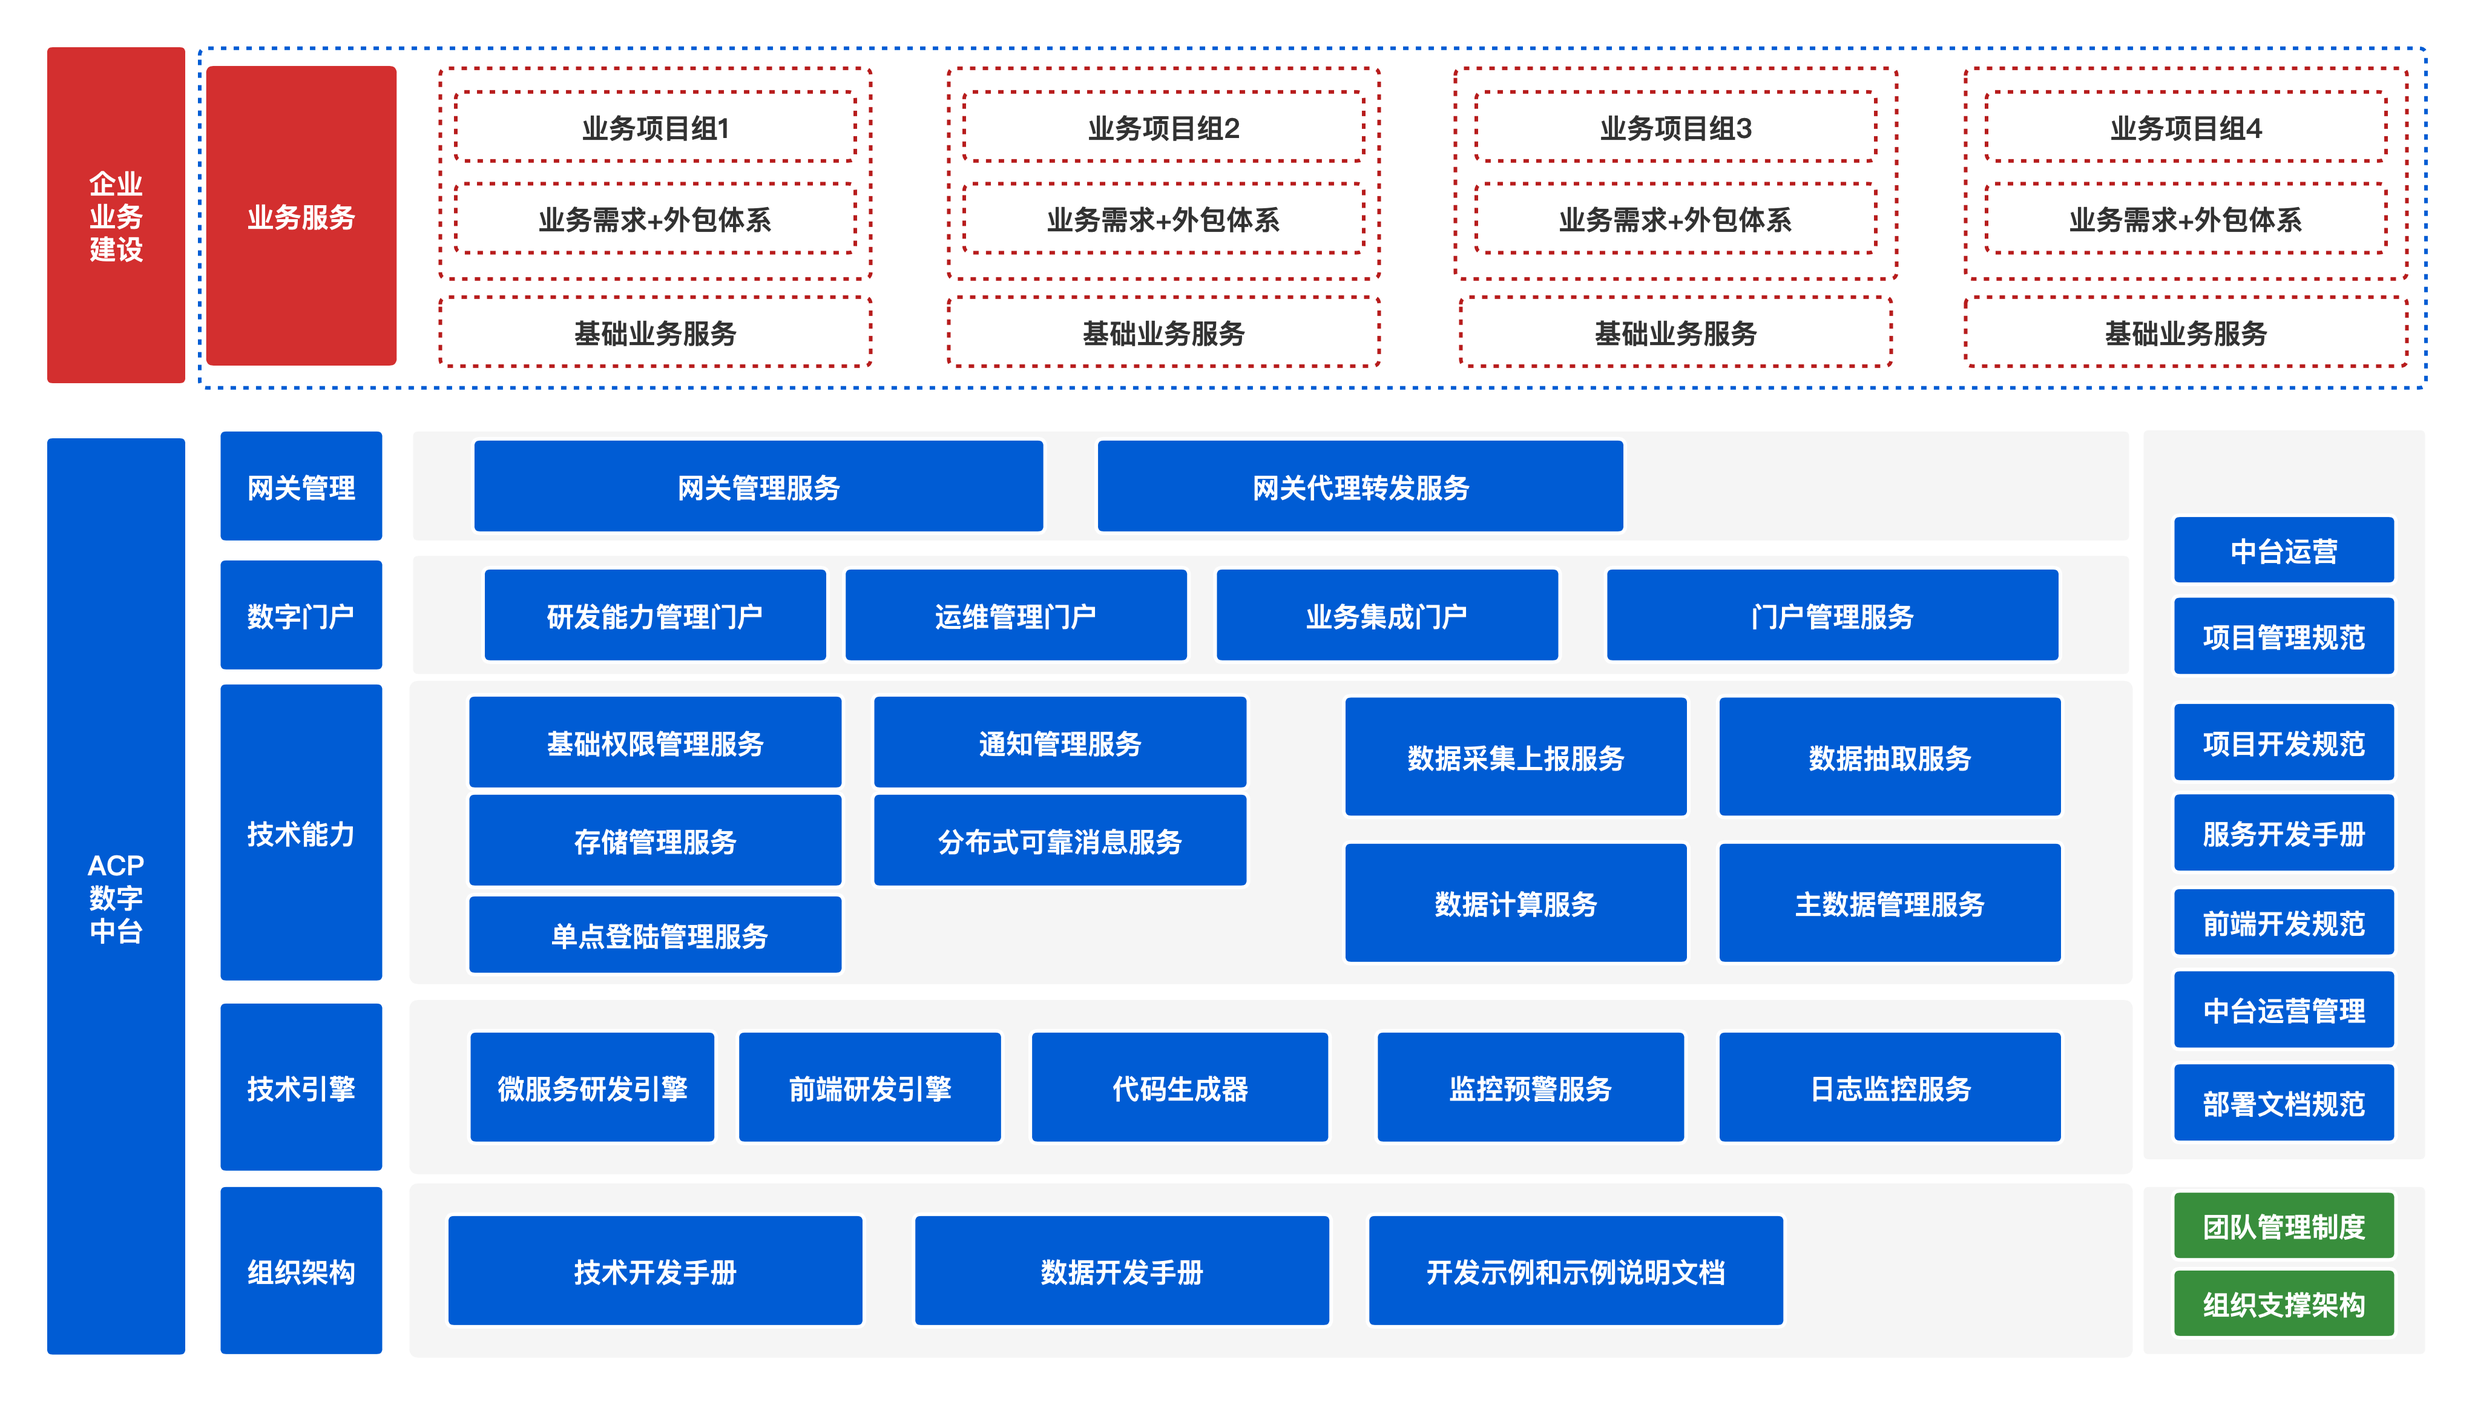
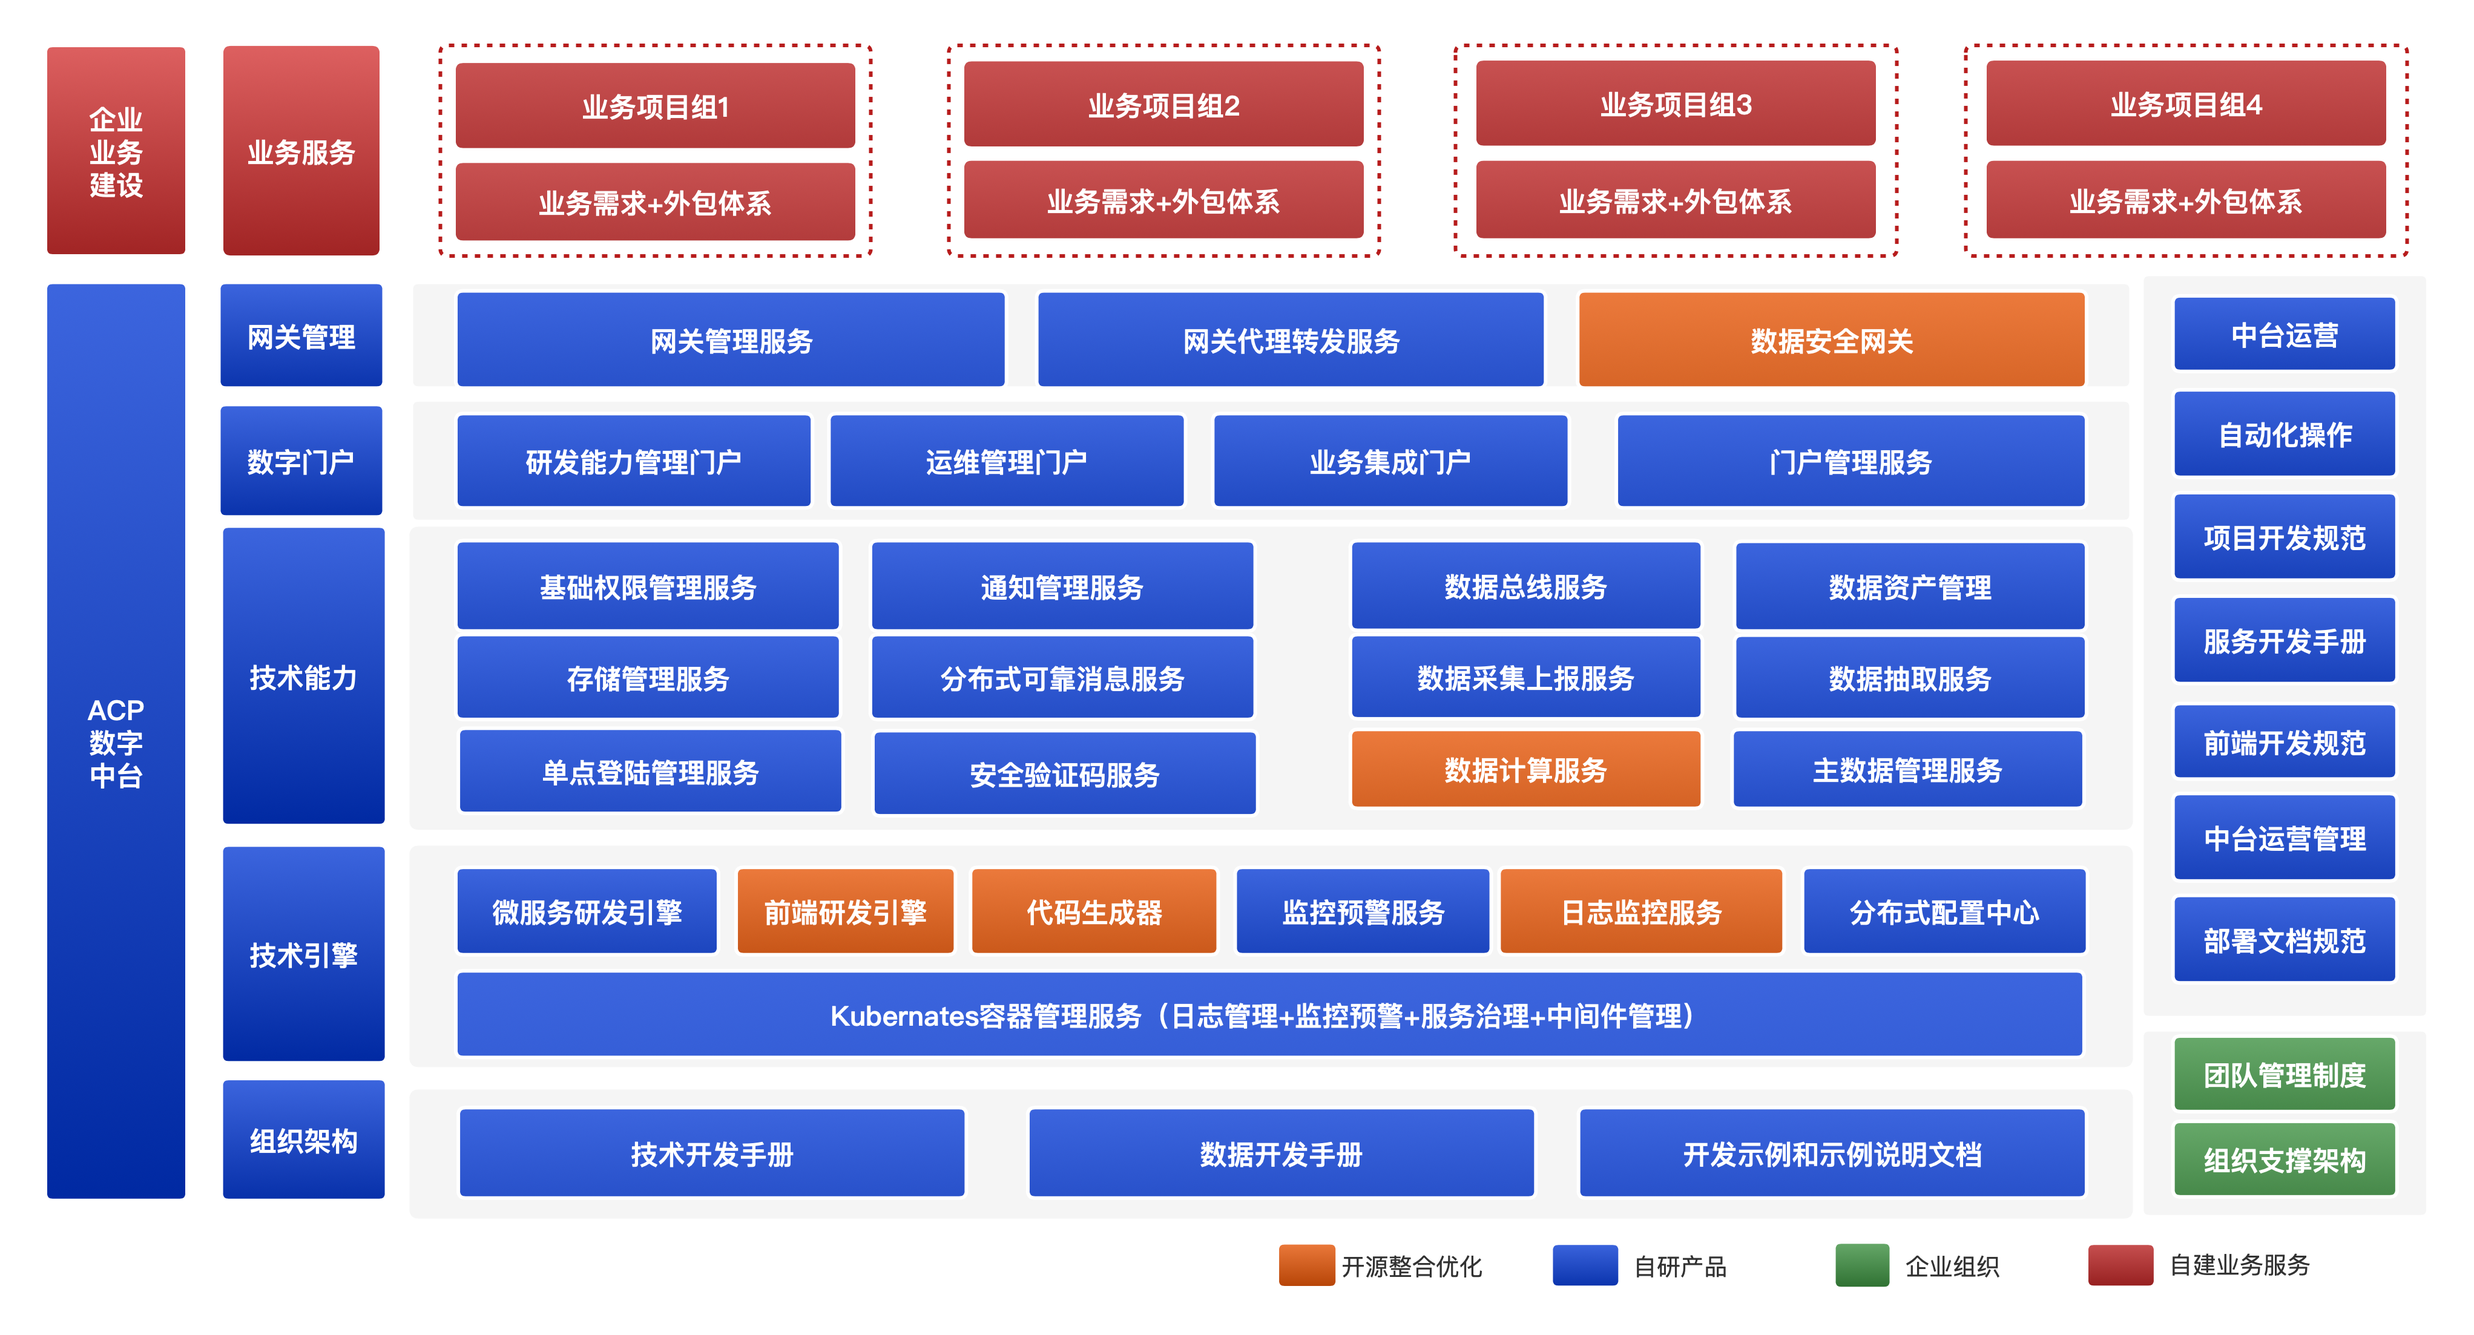
feat:集成数据网关服务说明和更新产品体系

diff --git a/docs/.vuepress/config.js b/docs/.vuepress/config.js
@@ -476,7 +476,12 @@ module.exports = {
                     title: '数据开发服务',
                     collapsible: true,
                     children: genDataSkillDevSidebar()
-                }
+                },
+                {
+                    title: '数据安全网关',
+                    collapsible: true,
+                    children: genDataSecuritySidebar()
+                },
             ],
             '/learn/': [
                 {
@@ -1747,6 +1752,19 @@ function genDataIntegrationSidebar() {
         '/dataskill/03_dataintegration/01_数据集成架构.md',
         '/dataskill/03_dataintegration/02_当前集成功能.md',
         '/dataskill/03_dataintegration/03_数据采集示例.md'
+    ]
+    return mapArr.map(i => {
+        return i
+    })
+
+}
+
+function genDataSecuritySidebar() {
+    const mapArr = [
+        '/dataskill/07_datasecurity/01_数据安全管理.md',
+        '/dataskill/07_datasecurity/02_数据接口路由配置.md',
+        '/dataskill/07_datasecurity/03_客户端配置与注册.md',
+        '/dataskill/07_datasecurity/04_负载均衡管理.md'
     ]
     return mapArr.map(i => {
         return i

diff --git a/docs/dataskill/07_datasecurity/02_数据接口路由配置.md b/docs/dataskill/07_datasecurity/02_数据接口路由配置.md
@@ -1,0 +1,99 @@
+# 数据接口路由配置
+
+
+
+## 概述
+
+通过对网关路由维护与管理，实现路由、过滤器、熔断、鉴权、限流、日志、监控等功，在服务管理上进行路由配置
+
+<img src="/data/data-security/01_route.png" width="70%">
+
+## 本内容你将获得
+
+- 路由的添加与修改
+- 服务配置
+- 熔断器配置
+- 监控器配置
+- 过滤器配置
+- 限流器配置
+- 鉴权器配置
+
+## 路由的添加与修改
+
+路由添加与修改步骤：
+
+- 点击服务管理，进入服务管理页
+- 点击创建网关服务按钮或点击已有服务 管理 > 编辑，进入路由配置页
+- 进行路由配置
+- 配置完成点击发布即可完成新增或修改
+
+注意:
+
+- RoutId、系统代号、名称、服务URL、断言Path是必填项
+
+## 服务配置
+
+- 网关服务URL： 用于配置后端服务URL，示例 http://server:port
+- 断言Path： 用于匹配路由路径
+- 断言Header：请求的头部需匹配该配置
+- 过滤StripPrefix： 截取断言Path多节斜杠后内容，截取数量等于该配置的值
+- 断言Host： 请求的Host需匹配该配置
+- 断言RemoteAddr： 远程ip要匹配该值，示例: RemoteAddr=192.168.1.1/100
+- 参数RequestParameter： 往请求添加参数，示例: RequestParameter=version,v1.0
+- 重定向RewritePath： 将原始请求Path指向新的Path路径，但网关路由地址不变，如:/foo/abc指向/abc
+
+## 熔断器配置
+
+起用熔断器，当响应超时的时候，会触发降级，转到回调路径
+
+- 全局方法：超时时长设置5000ms，默认回调路径fallbackUri: forward:/fallback
+- 启用自定义：自定义超时时长及降级返回内容，回调路径fallbackUri: forward:/fallback/custom
+
+## 过滤器配置
+
+通过过滤器配置，与注册客户端相结合，起到过滤请求的作用
+
+- IP过滤：注册的客户端配置的IP才可访问后端服务
+- TOKEN过滤：请求头或参数带有注册客户端的token才可访问后端服务
+- ID过滤：请求头或参数带有注册客户端的id才可访问后端服务
+
+注意：
+
+- IP过滤需要配置本网关路由的注册客户端，非注册客户端IP不可访问
+- IP名单管理中的禁止通行的IP不可访问本网关路由
+- TOKEN为注册客户端中的JWT通行令牌
+
+## 限流器配置
+
+基于令牌桶算法的限流器，根据IP、URI、REQUESTID来进行限流
+
+- IP限流：当访问网关路由URL的IP数量，超出限流规则的约束，则直接拒决请求
+- URI限流： 当访问网关路由URL的URI数量，超出限流规则的约束，则直接拒决请求
+- REQUESTID限流：当访问网关路由URL的requestId参数数量，超出限流规则的约束，则直接拒决请求
+
+代码中相对应KeyResolver：
+
+```java
+// IP限流:
+Mono.just(exchange.getRequest().getRemoteAddress().getAddress().getHostAddress());
+
+// URI限流：
+Mono.just(exchange.getRequest().getURI().getPath());
+
+// REQUESTID限流：
+Mono.justOrEmpty(exchange.getRequest().getQueryParams().getFirst("requestId")).defaultIfEmpty("");  // defaultIfEmpt("")用来防止返回为null
+```
+
+## 鉴权器配置
+
+获取请求中信息，通过鉴权器下的配置验证获取的信息，不符合验证规则，则直接拒决请求
+
+- HEADER验证： 请求中的所带的HEADER头部信息需与该配置匹配，示例：Accept-Language: zh-CN,zh;q=0.9
+- IP验证： 如果启用IP过滤，则会先执行IP过滤后，再执行本IP验证，不符合验证规则，则直接拒决请求
+- 参数验证： 获取URL请求串中的所带的参数，验证指定参数值，不符合验证规则，则直接拒决请求
+- 时间验证： 只允许指定时间段内进行访问，不符合验证规则，则直接拒决请求，示例：08:00:00,20:00:00
+- Cookie验证： 获取客户端请求所带的cookie信息，验证指定cookie参数值，不符合验证规则，则直接拒决请求
+
+## 其他
+
+- 无

diff --git a/docs/dataskill/07_datasecurity/03_客户端配置与注册.md b/docs/dataskill/07_datasecurity/03_客户端配置与注册.md
@@ -1,0 +1,67 @@
+# 客户端配置与注册
+
+## 概述
+
+通过客户端与路由进行关联，可以实现对请求的过滤（过滤配置请看路由配置文档）
+
+<img src="/data/data-security/01_client.png" width="70%">
+
+## 本内容你将获得
+
+- 客户端配置
+- 客户端注册
+
+
+## 客户端配置
+
+- IP：客户端IP，与路由过滤器配置IP过滤器相关联，当路由注册了该客户端并且起用了ip过滤器时，来自该IP的请求会通过验证
+- 启用与禁用：当处于禁用状态时，即便注册了路由该客户端也不会起效
+
+## 客户端注册
+
+通过客户端注册，可以将客户端与路由进行关联
+
+### 注册方式
+
+- 客户端管理 > 客户端项管理 > 注册网关服务
+- 服务管理 > 服务项管理 > 注册客户端
+
+### **注册网关服务**
+
+- 点击添加服务可以选择当前客户端能够关联的路由，当路由被禁用时不会显示在可添加列表
+- 点击 操作 > 允许通行即可使注册生效
+- 该注册页主要显示注册的路由信息
+
+<img src="/data/data-security/02_client.png" width="70%">
+
+### 注册客户端
+
+- 点击添加客户端即可选择当前路由能够关联的客户端，当客户端被禁用时不会显示在可添加列表
+- 点击生成token，可打开JWT通行令牌配置页，生成的令牌可用于通过token过滤器验证
+- 点击 操作 > 允许通行即可使注册生效
+- 该注册页主要显示注册的客户端信息
+
+<img src="/data/data-security/03_client.png" width="70%">
+
+
+### JWT通行令牌配置
+
+- 过期时间为必填项，用于设置令牌过期时间
+
+- 生成好的token，可以用于请求中，设置头部或参数为此token，示例： 
+
+  ```shell
+  # 头部
+  curl -H 'token: <token>' http://xxx.xxx.xxx/xx/xx
+  
+  # 请求
+  curl http://xxx.xxx.xxx/xx/xx?token=<token>
+  ``` 
+
+- 配置好该JWT通行令牌的请求可以通过路由token过滤器的验证
+
+<img src="/data/data-security/04_client.png" width="500px">
+
+## 其他
+
+- 无

diff --git a/docs/dataskill/07_datasecurity/01_数据安全管理.md b/docs/dataskill/07_datasecurity/01_数据安全管理.md
@@ -1,0 +1,66 @@
+# 数据安全管理服务
+
+## 概述
+
+数据接口管理平台通过服务、客户端、负载、ip黑名单功能菜单来管理数据接口服务，通过面板、接口统计、接口监控来监控数据接口服务
+
+## 功能目录
+
+- 服务管理
+- 客户端管理
+- 负载管理
+- ip名单管理
+- 接口统计
+- 接口监控
+
+## 架构设计
+
+<img src="/data/data-security/framework.png" width="70%">
+
+## 服务管理
+
+用于对网关路由进行管理及配置，可配置路由、过滤器、熔断、鉴权、限流、日志、监控等功能
+
+<img src="/data/data-security/01_intro.png" width="70%">
+
+说明：
+- 通过注册客户端可以与客户端进行关联
+
+## 客户端管理
+
+通过客户端管理与维护，可允许或禁用客户端进行路由访问
+
+<img src="/data/data-security/02_intro.png" width="70%">
+
+说明：
+- 新增完客户端后注册服务到客户端（或在服务管理处注册客户端）能将客户端与服务进行关联
+
+## 负载管理
+
+支持通过负载URL路径，分发到多个路由URL
+
+<img src="/data/data-security/03_intro.png" width="70%">
+
+说明：
+- 在负载新增修改页通过添加服务来注册相关路由到负载服务项
+
+## ip名单管理
+
+提供访问网关路由服务的IP黑名单管理，如不需要禁用可以设置为允许通行
+
+<img src="/data/data-security/04_intro.png" width="70%">
+
+## 接口统计
+
+显示当前用户各个接口，可通过图表查看接口总请求量统计和单个接口请求量统计
+
+<img src="/data/data-security/05_intro.png" width="70%">
+
+说明：
+- 按天维度统计所有接口的请求次数，可展现7日内请求总量图表
+- 按小时维度统计所有接口请求次数，可展现24小时请求总量图表
+- 提供接口请求统计查询功能与数据列表，可展现每个接口信息与请求总次数
+
+## 其他
+
+- 无

diff --git a/docs/dataskill/07_datasecurity/04_负载均衡管理.md b/docs/dataskill/07_datasecurity/04_负载均衡管理.md
@@ -1,0 +1,36 @@
+# 负载均衡管理
+
+## 概述
+
+负载均衡模块通过对负载服务项进行自定义URL路径，注册路由，配置权重，实现请求分发
+
+<img src="/data/data-security/01_balance.png" width="70%">
+
+## 本内容你将获得
+
+- 负载均衡配置
+
+## 负载均衡配置
+
+### 路径配置
+
+- 路径不能为空，路径规则需要满足gateway断言Path规则，请根据实际API调用路径设置
+- 路径/parent/为默认根路径，不可更改，只做网关路由规则识别，用于区分负载路由路径与普通路由路径
+- 通过内置stripPrefix=1，实际转发到服务端不包含该/parent/根路径
+
+### 注册路由
+
+- 点击添加服务可以选择当前客户端能够关联的路由，当路由被禁用时不会显示在可添加列表
+- 添加服务后会将路由注册到负载里
+- 拖动配置比例可以设置注册路由的权重，当权重值为0时，改路由不会在负载里生效
+
+# 其他
+
+- 无
+
+
+
+
+
+
+

diff --git a/docs/dataskill/05_datadev/02_数据计算示例.md b/docs/dataskill/05_datadev/02_数据计算示例.md
@@ -14,7 +14,7 @@
 
 进入数据开发服务，导航到项目管理-项目名称链接-工作流-工作流定义，创建工作流
 
-<img :src="$withBase('/operation/data_dev_02.png')" style="zoom:45%">
+<img :src="$withBase('/operation/data_dev_02.png')">
 
 配置说明：
 
@@ -27,7 +27,7 @@
 
  工作流一：
 
-<img :src="$withBase('/operation/data_dev_03.png')" style="zoom:53%"> 
+<img :src="$withBase('/operation/data_dev_03.png')"> 
 
 ## 其它
 

diff --git a/docs/data/framework/02_数据仓库/02_数仓分层.md b/docs/data/framework/02_数据仓库/02_数仓分层.md
@@ -17,7 +17,7 @@
 
 ### 整体分层结构
 
-<img :src="$withBase('/data/data-layer-03.png')" style="zoom:80%">
+<img :src="$withBase('/data/data-layer-03.png')">
 
 说明：
 
@@ -30,7 +30,7 @@
 
 > 整体如下
 
-<img :src="$withBase('/data/data-layer.png')"  style="zoom:80%" >
+<img :src="$withBase('/data/data-layer.png')" >
 
 说明：
 

diff --git a/docs/dataskill/02_datareport/01_数据上报架构.md b/docs/dataskill/02_datareport/01_数据上报架构.md
@@ -14,7 +14,7 @@
 
 系统根据业务需求提供excel文件导入功能，提供统一的excel文件上报入口
 
-<img :src="$withBase('/operation/data_hudi_19.png')" style="zoom:40%" >
+<img :src="$withBase('/operation/data_hudi_19.png')" >
 
 架构描述：
 

diff --git a/docs/data/framework/08_管理系统/03_ETL在线调试平台.md b/docs/data/framework/08_管理系统/03_ETL在线调试平台.md
@@ -10,7 +10,7 @@ ETL(extract 提取、transform 转换、load 加载)。ETL 负责将分散的、
 
 ### ETL 架构图
 
-<img :src="$withBase('/data/etl.png')" style="zoom:35%">
+<img :src="$withBase('/data/etl.png')" >
 
 
 ### 数据清洗

diff --git a/docs/platform/business/14_数据中台/07_主数据管理服务.md b/docs/platform/business/14_数据中台/07_主数据管理服务.md
@@ -16,7 +16,7 @@
 
 ## 业务架构图
 
-<img :src="$withBase('/operation/data_manager_01.png')" style="zoom:30%">
+<img :src="$withBase('/operation/data_manager_01.png')">
 
 架构描述：
 

diff --git a/docs/dataskill/04_datamanage/01_主数据集成架构.md b/docs/dataskill/04_datamanage/01_主数据集成架构.md
@@ -11,7 +11,7 @@
 
 ### 架构设计
 
-<img :src="$withBase('/operation/data_manager_01.png')" style="zoom:80%">
+<img :src="$withBase('/operation/data_manager_01.png')" >
 
 架构描述：
 
